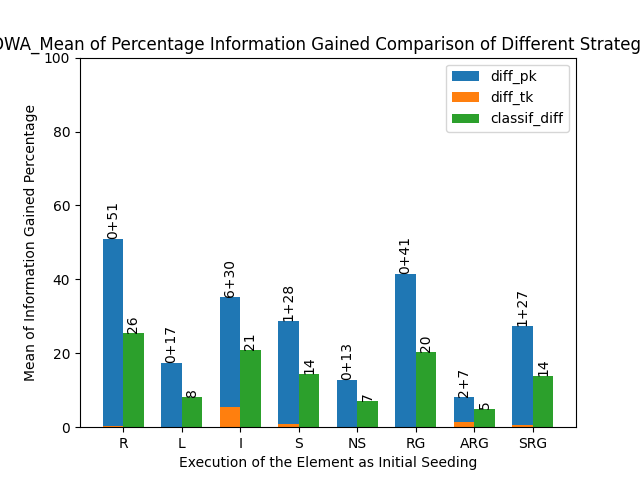
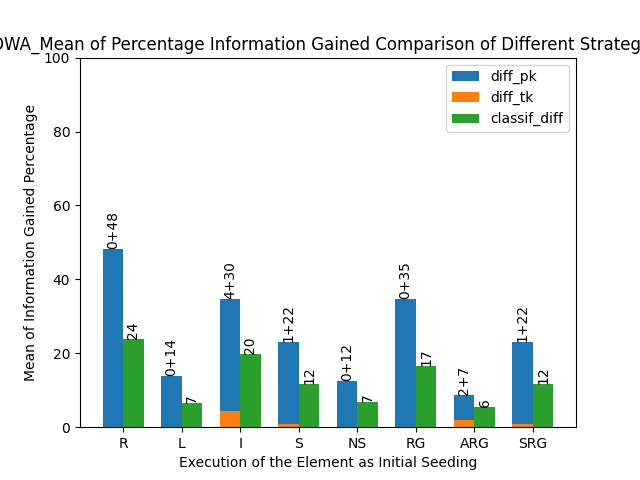
everything now skips taxonomies that have less than 5 classes

diff --git a/src/FileReader.py b/src/FileReader.py
@@ -14,6 +14,10 @@ directory_path = os.path.realpath(r"C:\Users\ttuga\Desktop\Research_Project\Soft
 # can change whether to run CWA or OWA from this variable
 check_complete = False
 
+# true for only the combined graph, false for only the regular graph, none for both
+# TODO MAKE THE PART OF BEING ABLE TO RUN BOTH AT THE SAME TIME
+combined_graph = True
+
 
 def read_taxonomy(path, number_of_taxonomies, model_name, strategy, sub_super_strategy, min_max_strategy):
     model_diff_pks = []
@@ -46,6 +50,12 @@ def read_taxonomy(path, number_of_taxonomies, model_name, strategy, sub_super_st
                 model_statistics = read_file(
                     os.path.join(test_path,
                                  "statistics_" + model_name + "_tt001_ac_tx" + '{:03}'.format(tax_num) + ".csv"))
+                # skipping taxonomies that have less than 5 classes in them
+                # normally this should have been done with the model data, however,
+                # due to inconsistencies between data and statistics files I have to do it here
+                if len(model_statistics) < 5:
+                    continue
+                # print(len(model_statistics))
             except FileNotFoundError:
                 # TODO MIGHT BE ABLE TO ADD THE MODEL AND THE TAXONOMY TO THE EXCEPTION LIST FROM HERE
                 # THAT WAY WE WOULD HAVE A CONCRETE VIEW OF THE SKIPPED TAXONOMIES
@@ -58,6 +68,12 @@ def read_taxonomy(path, number_of_taxonomies, model_name, strategy, sub_super_st
                 model_statistics = read_file(
                     os.path.join(test_path,
                                  "statistics_" + model_name + "_tt001_aN_tx" + '{:03}'.format(tax_num) + ".csv"))
+                # skipping taxonomies that have less than 5 classes in them
+                # normally this should have been done with the model data, however,
+                # due to inconsistencies between data and statistics files I have to do it here
+                if len(model_statistics) < 5:
+                    continue
+                # print(len(model_statistics))
             except FileNotFoundError:
                 # TODO MIGHT BE ABLE TO ADD THE MODEL AND THE TAXONOMY TO THE EXCEPTION LIST FROM HERE
                 # THAT WAY WE WOULD HAVE A CONCRETE VIEW OF THE SKIPPED TAXONOMIES
@@ -67,7 +83,12 @@ def read_taxonomy(path, number_of_taxonomies, model_name, strategy, sub_super_st
         # if we get statistics error, that is because this taxonomy doesn't have any classes
         # that conform to the strategy we are using, thus we skip the taxonomy
         try:
-            taxonomy_diff_pk_mean, taxonomy_diff_tk_mean, taxonomy_classif_diff_mean = analyse_taxonomy(model_data, model_statistics, taxonomy_name, strategy, sub_super_strategy, min_max_strategy)
+            taxonomy_diff_pk_mean, taxonomy_diff_tk_mean, taxonomy_classif_diff_mean = analyse_taxonomy(model_data,
+                                                                                                        model_statistics,
+                                                                                                        taxonomy_name,
+                                                                                                        strategy,
+                                                                                                        sub_super_strategy,
+                                                                                                        min_max_strategy)
             model_diff_pks.append(taxonomy_diff_pk_mean)
             model_diff_tks.append(taxonomy_diff_tk_mean)
             model_classif_diffs.append(taxonomy_classif_diff_mean)
@@ -114,7 +135,8 @@ def read_directory():
                         try:
                             # adds the means of the models into the graph list for the said attribute
                             model_diff_pk_mean, model_diff_tk_mean, model_classif_diff_mean = (
-                                read_taxonomy(path, number_of_taxonomies, model, strategy, sub_super_strategy, min_max_strategy))
+                                read_taxonomy(path, number_of_taxonomies, model, strategy, sub_super_strategy,
+                                              min_max_strategy))
                             graph_diff_pks.append(model_diff_pk_mean)
                             graph_diff_tks.append(model_diff_tk_mean)
                             graph_classif_diffs.append(model_classif_diff_mean)
@@ -128,14 +150,14 @@ def read_directory():
                     else:
                         continue
                 try:
-                    strategy_statistics[strategy] = [statistics.mean(graph_diff_pks), statistics.mean(graph_diff_tks), statistics.mean(graph_classif_diffs)]
+                    strategy_statistics[strategy] = [statistics.mean(graph_diff_pks), statistics.mean(graph_diff_tks),
+                                                     statistics.mean(graph_classif_diffs)]
                 except statistics.StatisticsError:
                     # if we get this, it is because the model doesn't have a single class in any of its taxonomies
                     # that conform to the strategy we are using, thus we skip the model
                     continue
             make_strategy_graph(strategy_statistics, sub_super_strategy, min_max_strategy, check_complete)
             iteration_count = iteration_count + 1
-
 
 
 def is_ttl_file(file_path):
@@ -170,6 +192,23 @@ SUB_SUPER_STRATEGIES = [
 MIN_MAX_STRATEGIES = [
     'MAX',
     'MIN'
+]
+
+POSITIONAL_STRATEGIES = [
+    'ROOT',
+    'LEAF',
+    'INTERMEDIATE'
+]
+
+SORTALITY_STRATEGIES = [
+    'SORTAL',
+    'NON_SORTAL'
+]
+
+RIGIDITY_STRATEGIES = [
+    'RIGID',
+    'ANTI_RIGID',
+    'SEMI_RIGID'
 ]
 
 # """A dictionary that holds all the taxonomies that should be skipped while evaluating the dataset. The reason for
